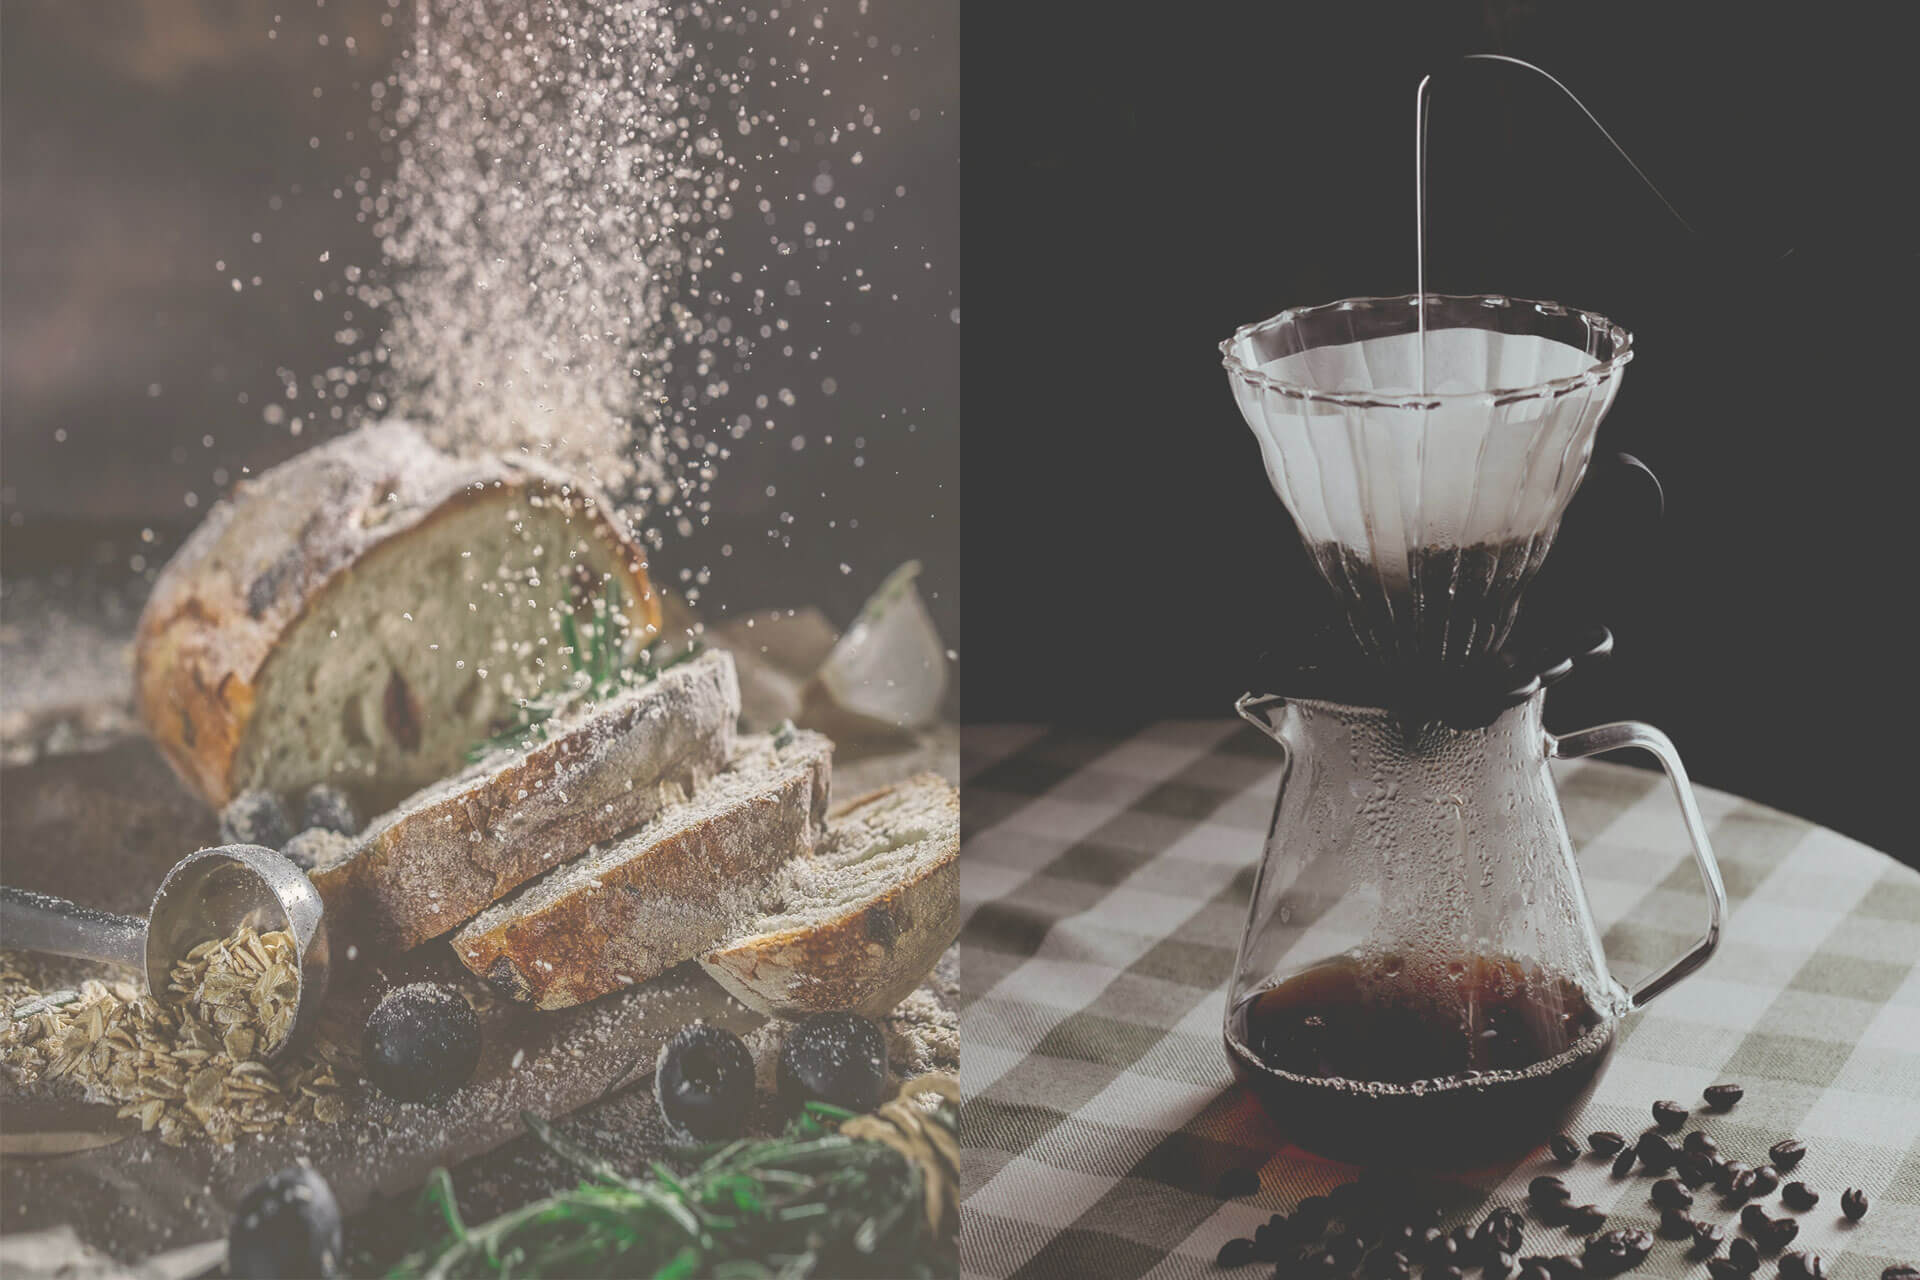
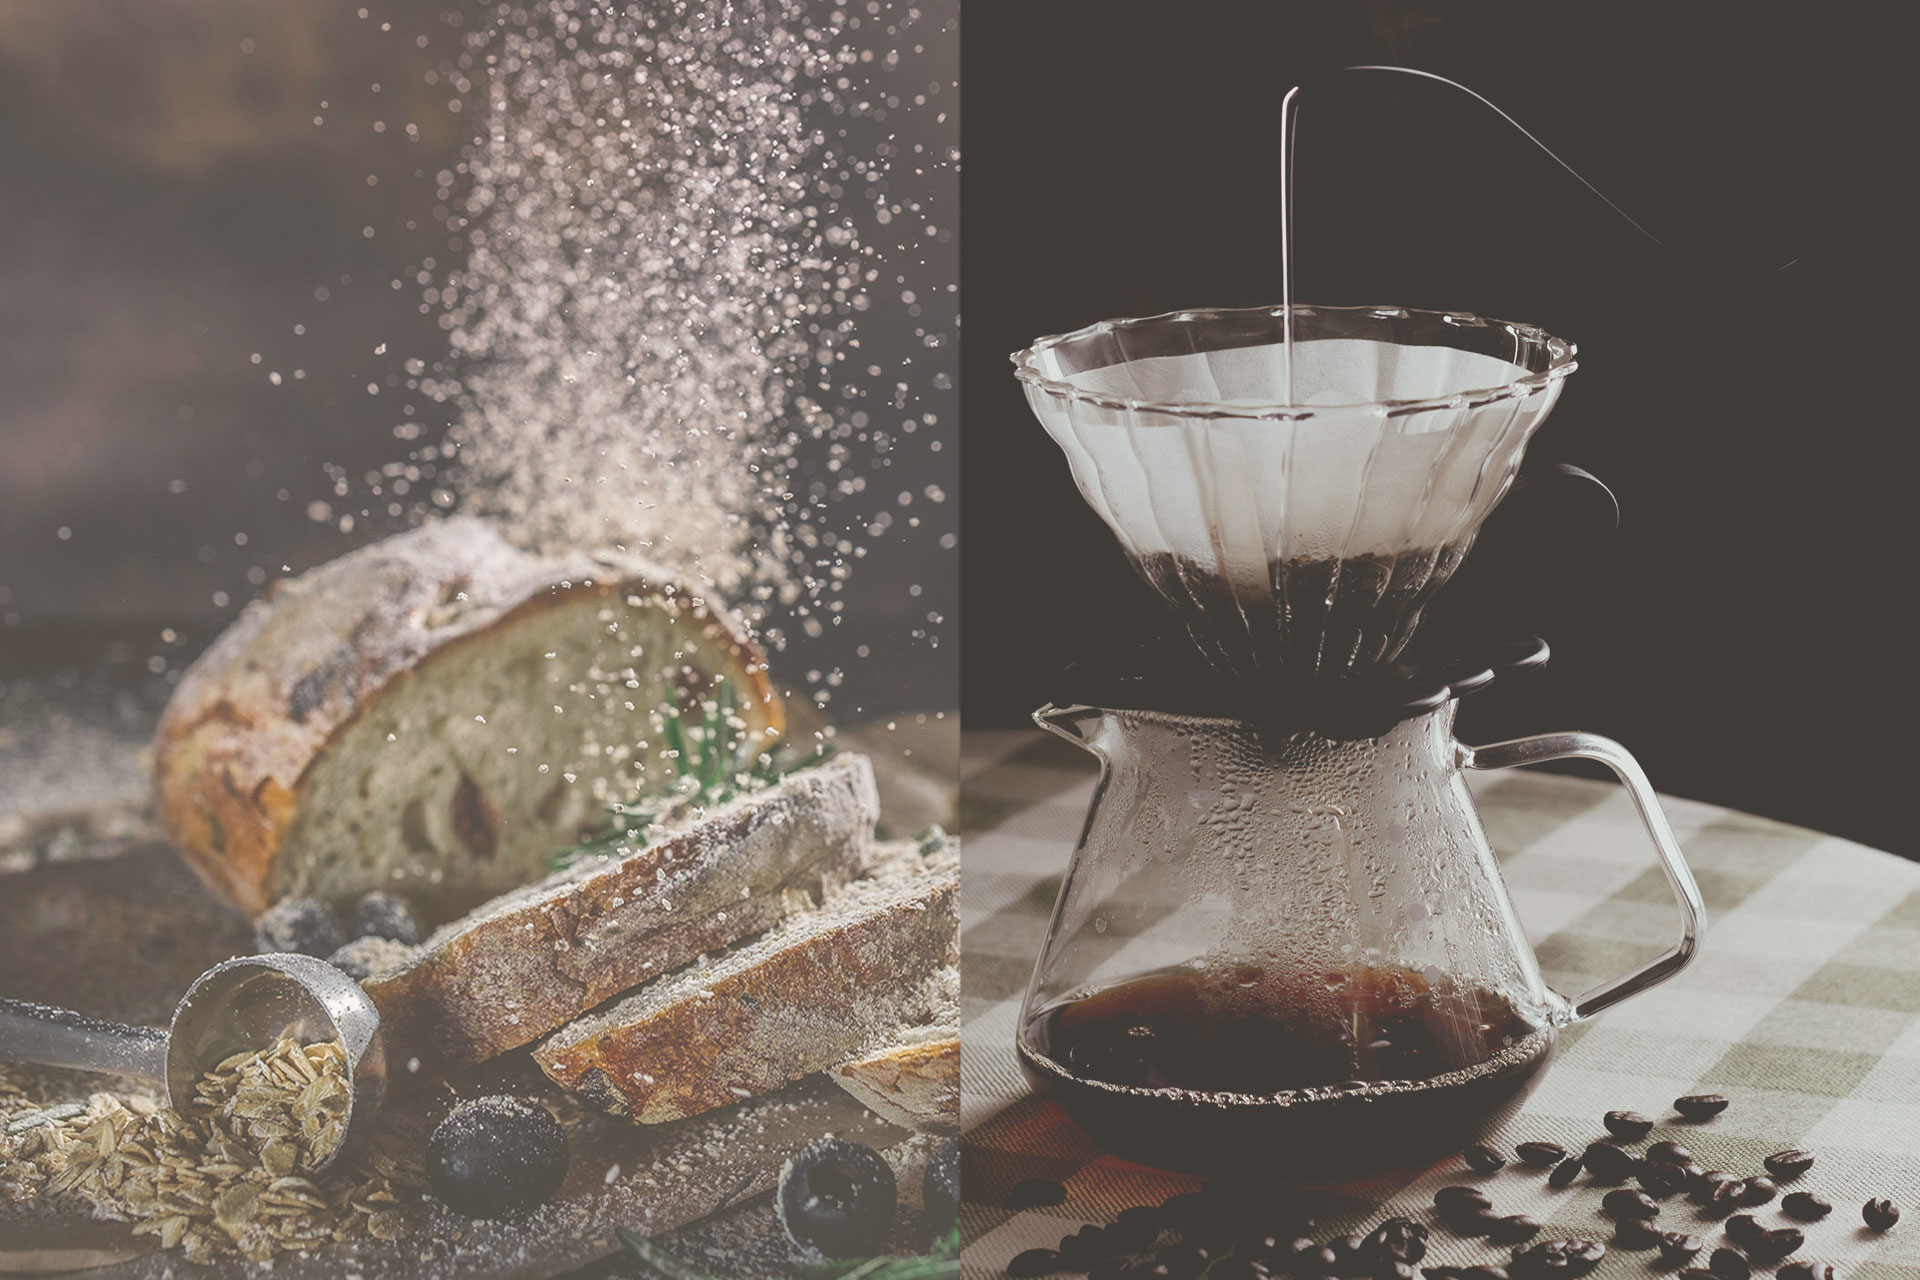
style: Update about page photo, hero image height, carousel height, and parallax effect
- Replaced the last photo on the about page
- Adjusted the hero image height in the about page
- Set carousel height same as the hero image for consistency
- Modified parallax effect to start immediately upon scrolling
- This changes are made to improve overall visual appeal

diff --git a/src/javascript/utils/scrollEffects/applyParallax.js b/src/javascript/utils/scrollEffects/applyParallax.js
@@ -40,7 +40,7 @@ export const applyParallax = async () => {
 
     gsap.set(image, {
       scale: 1.2,
-      y: '0%'
+      y: '-50%'
     });
 
     gsap.to(image, {
@@ -48,8 +48,8 @@ export const applyParallax = async () => {
       ease: 'none',
       scrollTrigger: {
         trigger: imageContainer,
-        start: 'top',
-        end: 'bottom',
+        start: 'top bottom',
+        end: 'bottom top',
         scrub: true
       }
     });

diff --git a/src/styles/carouselComponent.css b/src/styles/carouselComponent.css
@@ -1,11 +1,15 @@
 .carousel {
-  height: 815px;
+  height:920px;
   width: 100%;
   position: relative;
   overflow: hidden;
   display: flex;
   justify-content: center;
   align-items: center;
+}
+
+.single-image {
+  transform:scale(1.2);
 }
 
 .slide {

diff --git a/src/styles/aboutComponent.css b/src/styles/aboutComponent.css
@@ -1,5 +1,5 @@
 .hero-image-section{
-  height: 815px;
+  height:920px;
   overflow: hidden;
 }
 
@@ -12,7 +12,7 @@
   padding-block: 1.2rem;
   width: 100%;
   position:absolute;
-  top:27%;
+  top:35%;
   z-index: 999;
 }
 
